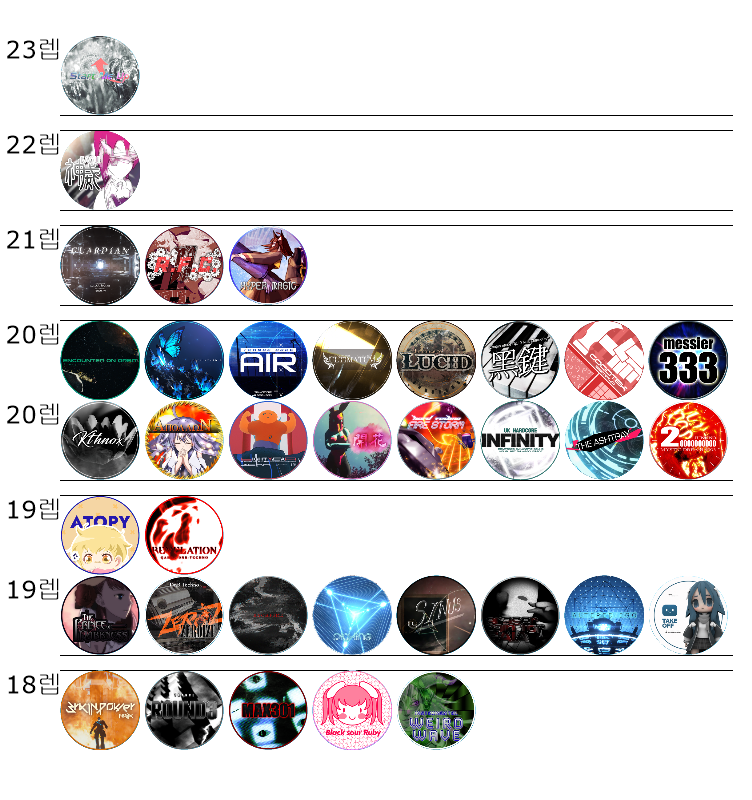
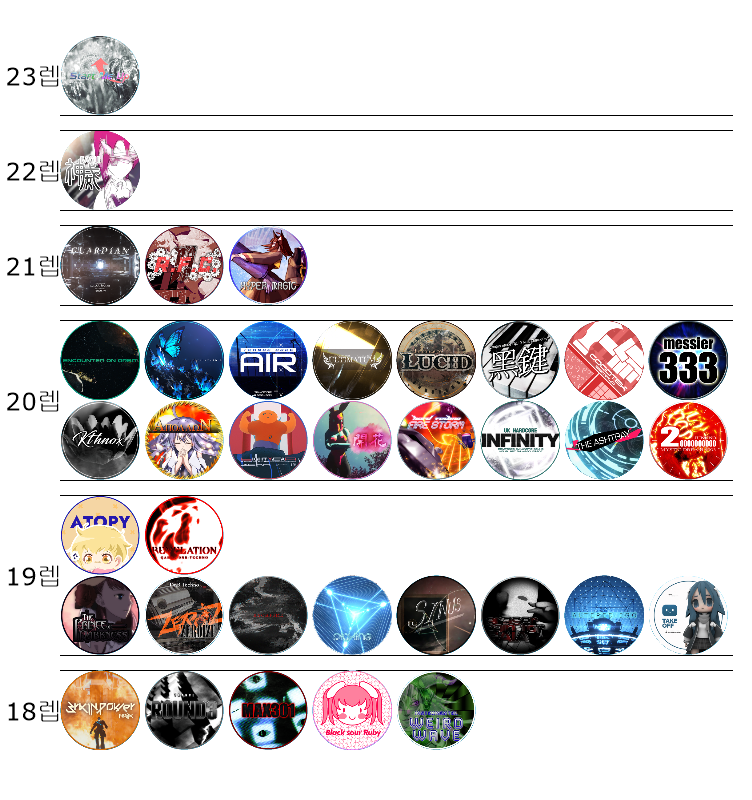
g

diff --git a/ECMBase/ECMDrawer.cs b/ECMBase/ECMDrawer.cs
@@ -1,6 +1,4 @@
 using System.Drawing;
-using System.Drawing.Drawing2D;
-using System.Drawing.Text;
 
 namespace ECMBase
 {
@@ -79,7 +77,7 @@ namespace ECMBase
         //만드는중
         public TextBase LEFTLEVEL = new TextBase(new Font("Verdana",18),100,Color.Black);
         public int LEFTLEVELLEFTGAP = 2;
-        public int LEFTLEVELTOPGAP = 40;
+        public int LEFTLEVELYOFFSET = 27;
         public string LEFTLEVELSUFFIX = "렙";
 
         public bool SHOWLINE = true;
@@ -105,13 +103,22 @@ namespace ECMBase
 
             if(SHOWLEFTLEVEL)
             {
-                for (int i = 0; i < drawer.BOX_YCOUNT; i ++)
+                for (int i = 0; i < drawer.BOX_YCOUNT; i++)
                 {
-                    int y = drawer.YCOVERAXIS[i];
+                    int count = drawer.LEFTLEVELS.Skip(i+1).TakeWhile((val) => val == drawer.LEFTLEVELS[i]).Count();
 
-                    var sm = LEFTLEVEL.Draw(drawer, drawer.LEFTLEVELS[i].ToString()+LEFTLEVELSUFFIX, LEFTLEVELLEFTGAP, y, 2);
+                    int yaxis1 = drawer.YCOVERAXIS[i];
+                    int yaxis2 = drawer.YCOVERAXIS[i+count];
+
+                    int yaxis = (yaxis1 + yaxis2) / 2 + LEFTLEVELYOFFSET;
+
+
+
+                    var sm = LEFTLEVEL.Draw(drawer, drawer.LEFTLEVELS[i].ToString() + LEFTLEVELSUFFIX, LEFTLEVELLEFTGAP, yaxis, 2);
 
                     canvas.DrawImage(sm.image, new Point(sm.rect.X, sm.rect.Y));
+
+                    i += count;
                 }
             }
 
@@ -279,7 +286,11 @@ namespace ECMBase
                     realy = currenty + (int)Math.Ceiling((double)x / MAXBOXCOUNT);
                     map[realx, realy] = new STATE.LEVEL(levels[x]);
 
-                    lvs[realy] = lv;
+                    
+                }
+                for(int i=currenty; i<realy || i==0;i++)
+                {
+                    lvs[i] = lv;
                 }
 
                 Height = realy;
